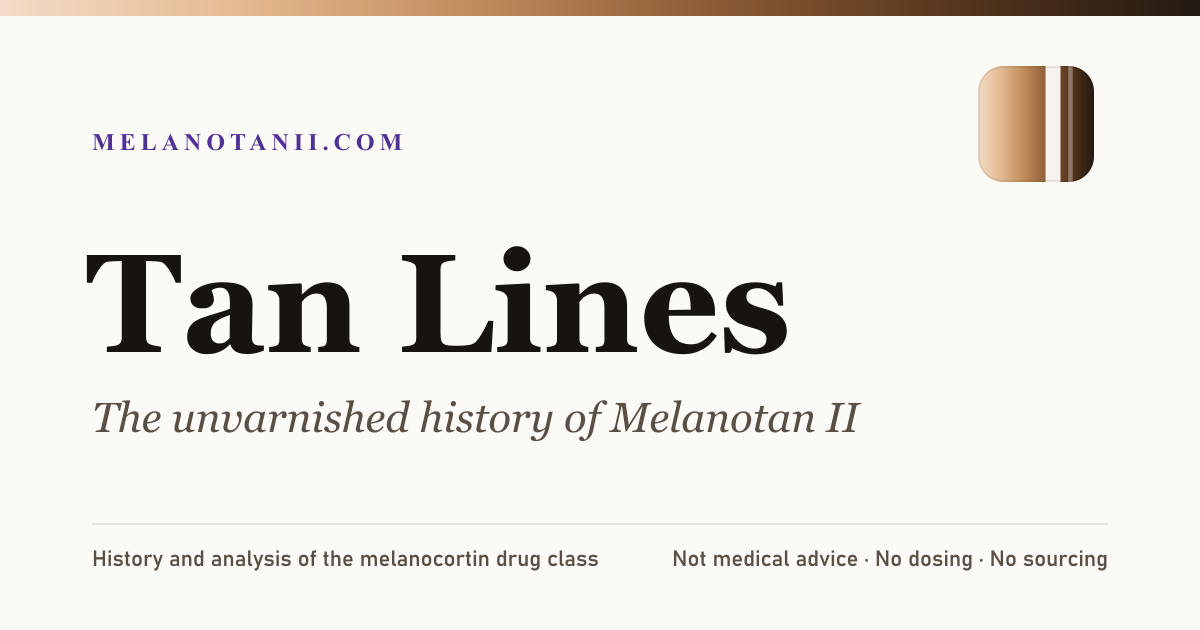
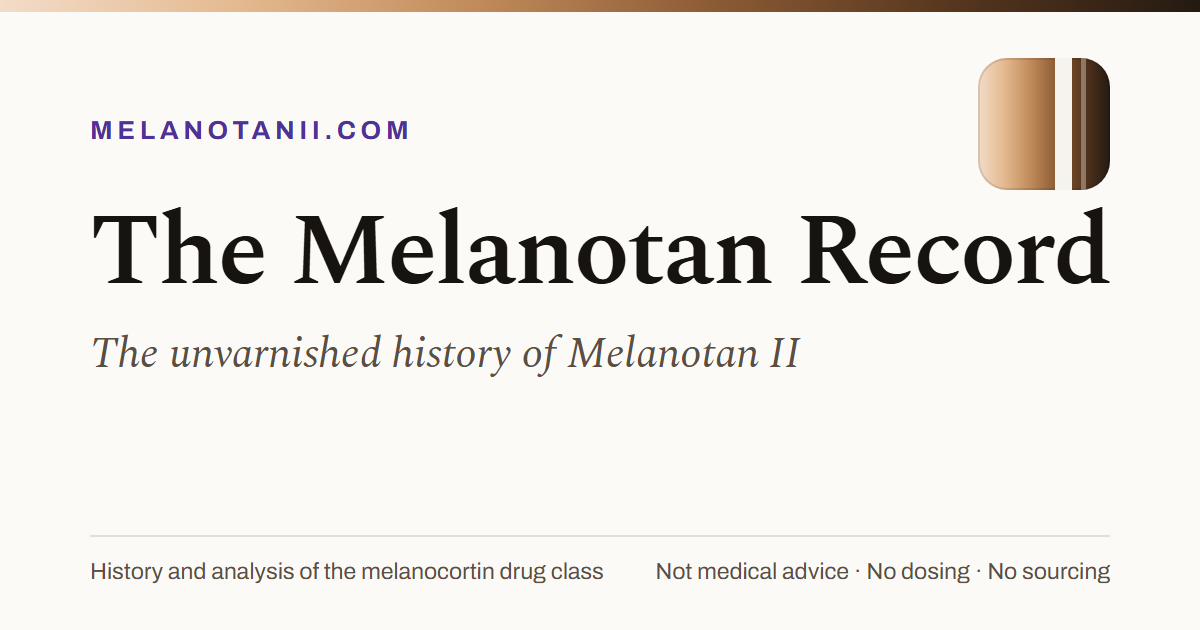
Rename brand: Tan Lines -> The Melanotan Record
Swap the editorial wordmark everywhere it appears as site identity:
masthead, all page <title>s, og:site_name, og:image:alt, JSON-LD
WebSite/Organization names, RSS title, webmanifest name/short_name,
favicon a11y label, and footer. Kept the "told straight" sub-tag and
the tan-line visual motif (logo chip + pigment bar) as the low-key nod.
Regenerated public/og-image.png (1200x630) with the new wordmark.

diff --git a/src/pages/rss.xml.js b/src/pages/rss.xml.js
@@ -6,7 +6,7 @@ export async function GET(context) {
     .sort((a, b) => b.data.pubDate.valueOf() - a.data.pubDate.valueOf());
 
   return rss({
-    title: 'Tan Lines',
+    title: 'The Melanotan Record',
     description:
       'The full Melanotan II story, told straight: the research that created it, the gray market that hijacked it, the approved drugs it spawned, and the photoprotective medicine that could still come.',
     site: context.site,

diff --git a/docs/CONTENT-PLAN.md b/docs/CONTENT-PLAN.md
@@ -1,6 +1,6 @@
 # Content plan — melanotanii.com
 
-Working brief for expanding "Tan Lines" from its launch set (21 articles,
+Working brief for expanding "The Melanotan Record" from its launch set (21 articles,
 ~400–600 words each, 5 clusters) toward deeper, more durable coverage.
 
 **How to use this:** each proposed article below is a commissioning brief,

diff --git a/README.md b/README.md
@@ -1,4 +1,4 @@
-# Tan Lines — melanotanii.com
+# The Melanotan Record — melanotanii.com
 
 History and analysis of Melanotan II, told straight. The site covers the
 compound's origin in melanoma-prevention research, the gray market that
